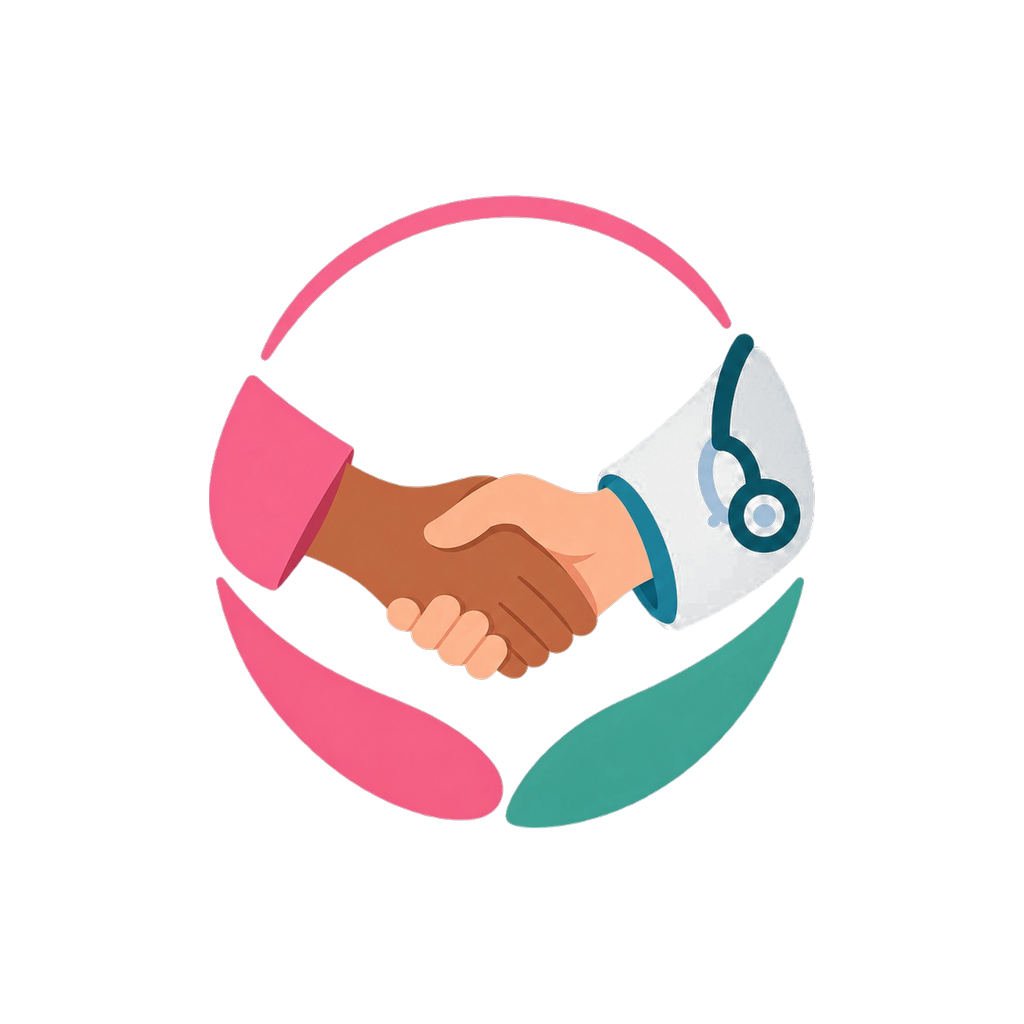
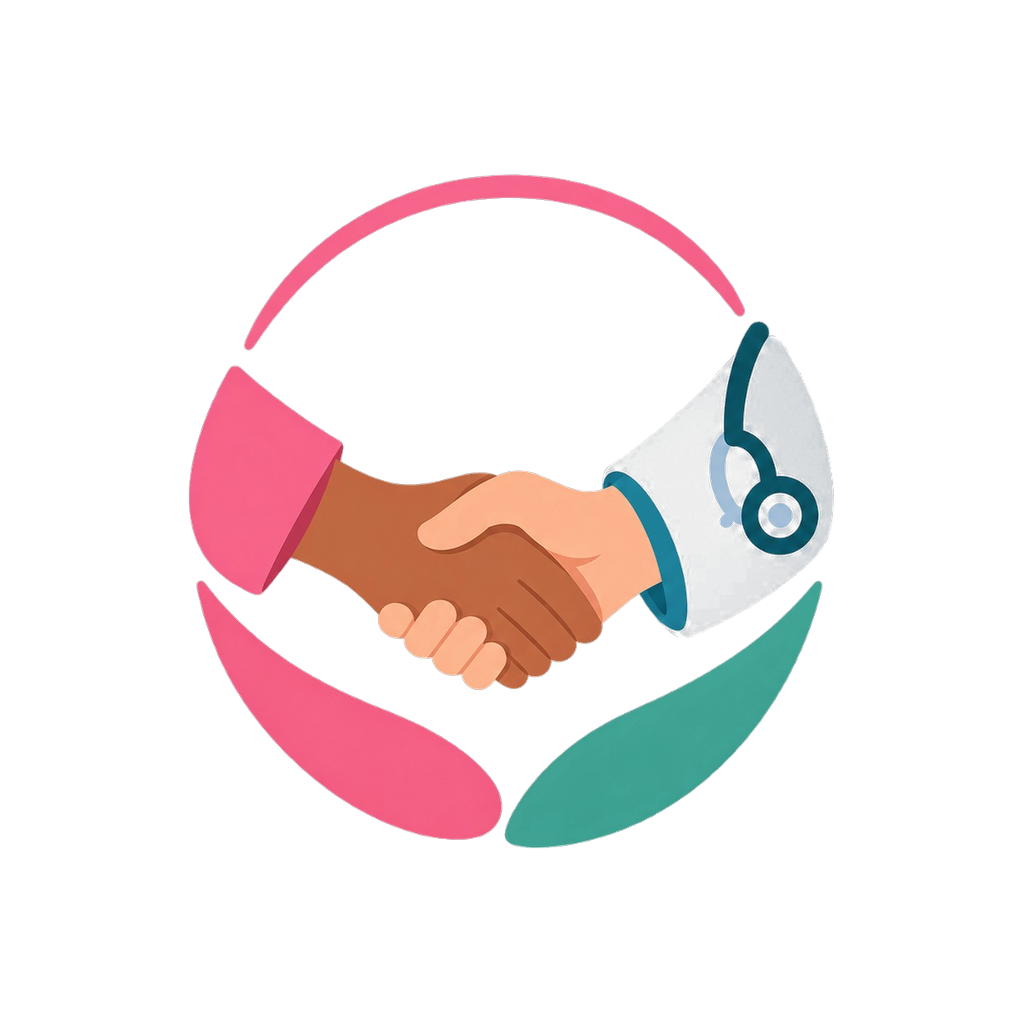
fix(mobile): embleme a la taille garantie par le masque, et script versionne
L'embleme occupait 62 % de la toile de l'icone adaptative. Verifie sur un
Pixel 4 : il flottait au milieu d'un disque blanc, nettement plus petit que
les icones voisines. Android garantit les 72 dp centraux d'une toile de 108,
soit 66 % — l'embleme y est porte, ce qui remplit le masque sans risquer
qu'un lanceur agressif le rogne.

La derivation des fichiers de marque entre au depot dans tools/derive-logo.py.
Elle etait jusqu'ici dans un fichier temporaire : personne n'aurait pu
reproduire le detourage ni retrouver les tailles, et le prochain changement de
logo serait reparti de zero. Le script fait aussi la reduction — les images
web pesent 1,25 Mo en pleine taille pour un logo affiche a 96 pixels.

Verifie sur appareil : icone dans le lanceur, ecran de connexion, connexion,
synchronisation et accueil.

Changed region(s): [[0.1875, 0.1562, 0.8125, 0.8438], [0.4062, 0.4375, 0.5312, 0.5625], [0.5625, 0.5312, 0.5938, 0.5625]]

diff --git a/tools/derive-logo.py b/tools/derive-logo.py
@@ -1,0 +1,110 @@
+"""Derive les fichiers de marque depuis new_logo.jpeg.
+
+A relancer depuis la racine du depot apres toute retouche du logo :
+
+    python tools/derive-logo.py
+    cd mobile && dart run flutter_launcher_icons
+
+Sans ce script, personne ne saurait reproduire le detourage ni les tailles,
+et le prochain changement de logo repartirait de zero.
+
+Sorties :
+  mobile/assets/branding/icon_legacy.png      icone carree, Android 7
+  mobile/assets/branding/icon_foreground.png  couche avant de l'icone adaptative
+  mobile/assets/branding/embleme.png          embleme, ecran de connexion mobile
+  admin/public/logo-mbolatsara.png            logo complet, page de connexion web
+  admin/public/embleme-mbolatsara.png         embleme, barre laterale web
+  admin/public/icone.png                      favicon
+"""
+
+import os
+
+from PIL import Image
+
+SOURCE = 'new_logo.jpeg'
+FOND = (247, 247, 247)
+
+# Mesures relevees sur l'image : l'embleme circulaire, puis le tout avec le mot.
+EMBLEME = (240, 132, 1018, 946)
+COMPLET = (63, 132, 1191, 1155)
+
+
+def sans_fond(im, tolerance=26, marge=60):
+    """Rend transparent ce qui est proche de la couleur de fond.
+
+    Une rampe entre `tolerance` et `tolerance + marge` evite le liseré dentelé
+    qu'un seuil net laisserait sur les bords anticrénelés.
+    """
+    im = im.convert('RGBA')
+    px = im.load()
+    for y in range(im.height):
+        for x in range(im.width):
+            r, g, b, a = px[x, y]
+            d = abs(r - FOND[0]) + abs(g - FOND[1]) + abs(b - FOND[2])
+            if d <= tolerance:
+                px[x, y] = (r, g, b, 0)
+            elif d < tolerance + marge:
+                px[x, y] = (r, g, b, int(255 * (d - tolerance) / marge))
+    return im
+
+
+def carre(im, cote, proportion, fond=None):
+    """Centre `im` dans un carre, en occupant `proportion` du cote."""
+    cible = int(cote * proportion)
+    e = im.copy()
+    e.thumbnail((cible, cible), Image.LANCZOS)
+    toile = Image.new('RGBA', (cote, cote), fond or (0, 0, 0, 0))
+    toile.paste(e, ((cote - e.width) // 2, (cote - e.height) // 2), e)
+    return toile
+
+
+source = Image.open(SOURCE).convert('RGB')
+embleme = sans_fond(source.crop(EMBLEME))
+
+# Fond blanc plein : `adaptive_icon_background` est deja blanc, et Android 7
+# n'accepte pas de transparence sur l'icone historique.
+carre(embleme, 1024, 0.88, (255, 255, 255, 255)).save(
+    'mobile/assets/branding/icon_legacy.png'
+)
+
+# 66 % : c'est exactement la zone qu'Android garantit visible quel que soit le
+# masque du lanceur (72 dp sur une toile de 108). En dessous l'embleme flotte
+# au milieu d'un disque vide ; au-dessus, un masque agressif le rogne.
+carre(embleme, 1024, 0.66).save('mobile/assets/branding/icon_foreground.png')
+
+# Logo complet pour le web, transparent : il se pose aussi bien sur une carte
+# blanche que sur le panneau colore de la page de connexion.
+complet = sans_fond(source.crop(COMPLET))
+complet.save('admin/public/logo-mbolatsara.png')
+
+# Embleme seul, pour la barre laterale et le favicon, ou le mot serait illisible.
+embleme.save('admin/public/embleme-mbolatsara.png')
+
+def reduire(chemin, hauteur):
+    """Ramene une image a la taille ou elle est reellement affichee.
+
+    Les fichiers derives pesent plus d'un megaoctet en pleine taille, pour un
+    logo affiche a 96 pixels. Sur les connexions de Madagascar, c'est plus que
+    tout le reste de l'application reunie.
+    """
+    im = Image.open(chemin).convert('RGBA')
+    r = hauteur / im.height
+    im = im.resize((max(1, round(im.width * r)), hauteur), Image.LANCZOS)
+    im.save(chemin, optimize=True)
+    return im.size, os.path.getsize(chemin)
+
+
+# L'embleme sert aussi dans l'application : 256 px couvre les 96 dp affiches.
+mobile = 'mobile/assets/branding/embleme.png'
+embleme.save(mobile)
+reduire(mobile, 256)
+
+# Favicon avant reduction de l'embleme, pour partir de la pleine resolution.
+Image.open('admin/public/embleme-mbolatsara.png').save('admin/public/icone.png')
+
+print('icon_legacy     ', Image.open('mobile/assets/branding/icon_legacy.png').size)
+print('icon_foreground ', Image.open('mobile/assets/branding/icon_foreground.png').size)
+print('embleme mobile  ', Image.open(mobile).size)
+print('logo web        ', reduire('admin/public/logo-mbolatsara.png', 320))
+print('embleme web     ', reduire('admin/public/embleme-mbolatsara.png', 160))
+print('favicon         ', reduire('admin/public/icone.png', 64))
